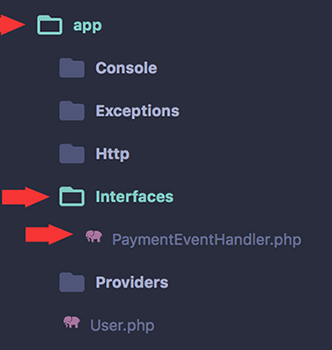
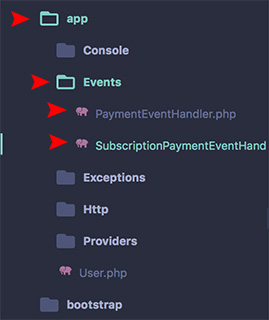
Updated README

diff --git a/README.md b/README.md
@@ -152,18 +152,22 @@ A sample form will look like so:
 ```
 
 #### 3. Setup your Event Handler
->This is where you set how you want to handle the transaction at different stages. You can store this anywhere. As for me, I created an `Interfaces` folder in the `app/` directory.  Location: `app/Interfaces/PaymentEventHandler.php`
+>This is where you set how you want to handle the transaction at different stages. You can store this anywhere. As for me, I created an `Events` folder in the `app/` directory.  Location: `app/Events/PaymentEventHandler.php`. You can have different event handler
 
 <p align="center">
- <img src="https://raw.githubusercontent.com/kingflamez/laravelrave/master/resources/img/RaveInterface.jpg" style="height: 100px" alt="PaymentEventHandler Directory"/>
+ <img src="https://raw.githubusercontent.com/kingflamez/laravelrave/master/resources/img/RaveInterface.jpg" style="height: 100px" alt="Events Directory with different classes implementing the RaveEventHandlerInterface"/>
 </p>
 
+<p align="center">Events Directory with different event handler classes implementing the RaveEventHandlerInterface</p>
+
 >Copy and paste the methods and replace with your actions for each event
+
+#### Example
 
 ```php
 <?php
 
-namespace App\Interfaces;
+namespace App\Events;
 
 //use the Rave Event Handler Interface
 use KingFlamez\Rave\RaveEventHandlerInterface;
@@ -273,18 +277,22 @@ class PaymentEventHandler implements RaveEventHandlerInterface{
 ```
 
 #### 4. Setup your Controller
+> Setup your controller to handle the routes. I created the `RaveController`. Use the `Rave`
+class from `KingFlamez\Rave\Rave` and also your payment event handler, I chose `App\Events\PaymentEventHandler`. Initiate the Rave class and use the methods needed.
+
 > Class documentation can be found here [https://flutterwave.github.io/Flutterwave-Rave-PHP-SDK/packages/Default.html](https://flutterwave.github.io/Flutterwave-Rave-PHP-SDK/packages/Default.html)
+
+#### Example
 
 ```php
 <?php
-
 namespace App\Http\Controllers;
 
 use Illuminate\Http\Request;
 
 //import the Rave Class and your Payment Event Handler
 use KingFlamez\Rave\Rave;
-use App\Interfaces\PaymentEventHandler;
+use App\Events\PaymentEventHandler;
 
 class RaveController extends Controller
 {
@@ -420,6 +428,11 @@ For [More Test Bank Accounts](https://flutterwavedevelopers.readme.io/docs/test-
  - Support Tokenized payment
  - Recurring Payment
 
+
+## Credits
+
+- [Oluwole Adebiyi (Flamez)][link-author]
+
 ## Contributing
 Please feel free to fork this package and contribute by submitting a pull request to enhance the functionalities. I will appreciate that a lot. I'm a newbie. I will appreciate a lot of stars.
 
@@ -430,15 +443,6 @@ Kindly star the GitHub repo and share ❤.  I ❤ Flutterwave
 
 Kindly [follow me on twitter](https://twitter.com/mrflamez_)!
 
-
-## License
-
-The MIT License (MIT). Please see [License File](LICENSE.md) for more information.
-
-
-## Credits
-
-- [Oluwole Adebiyi (Flamez)][link-author]
 
 ## License
 
